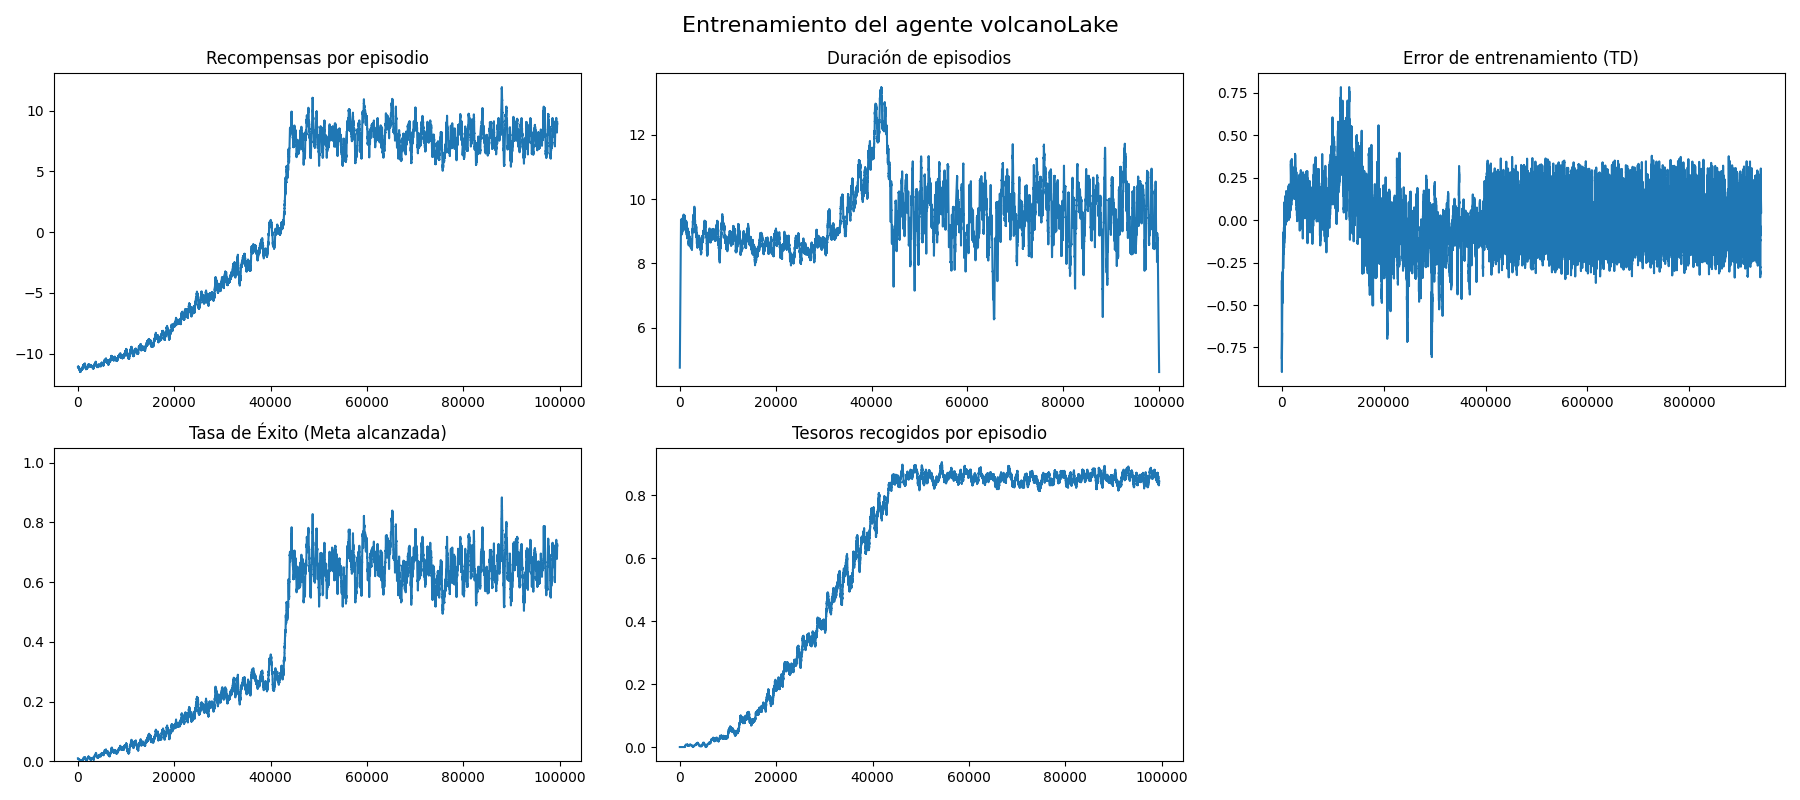
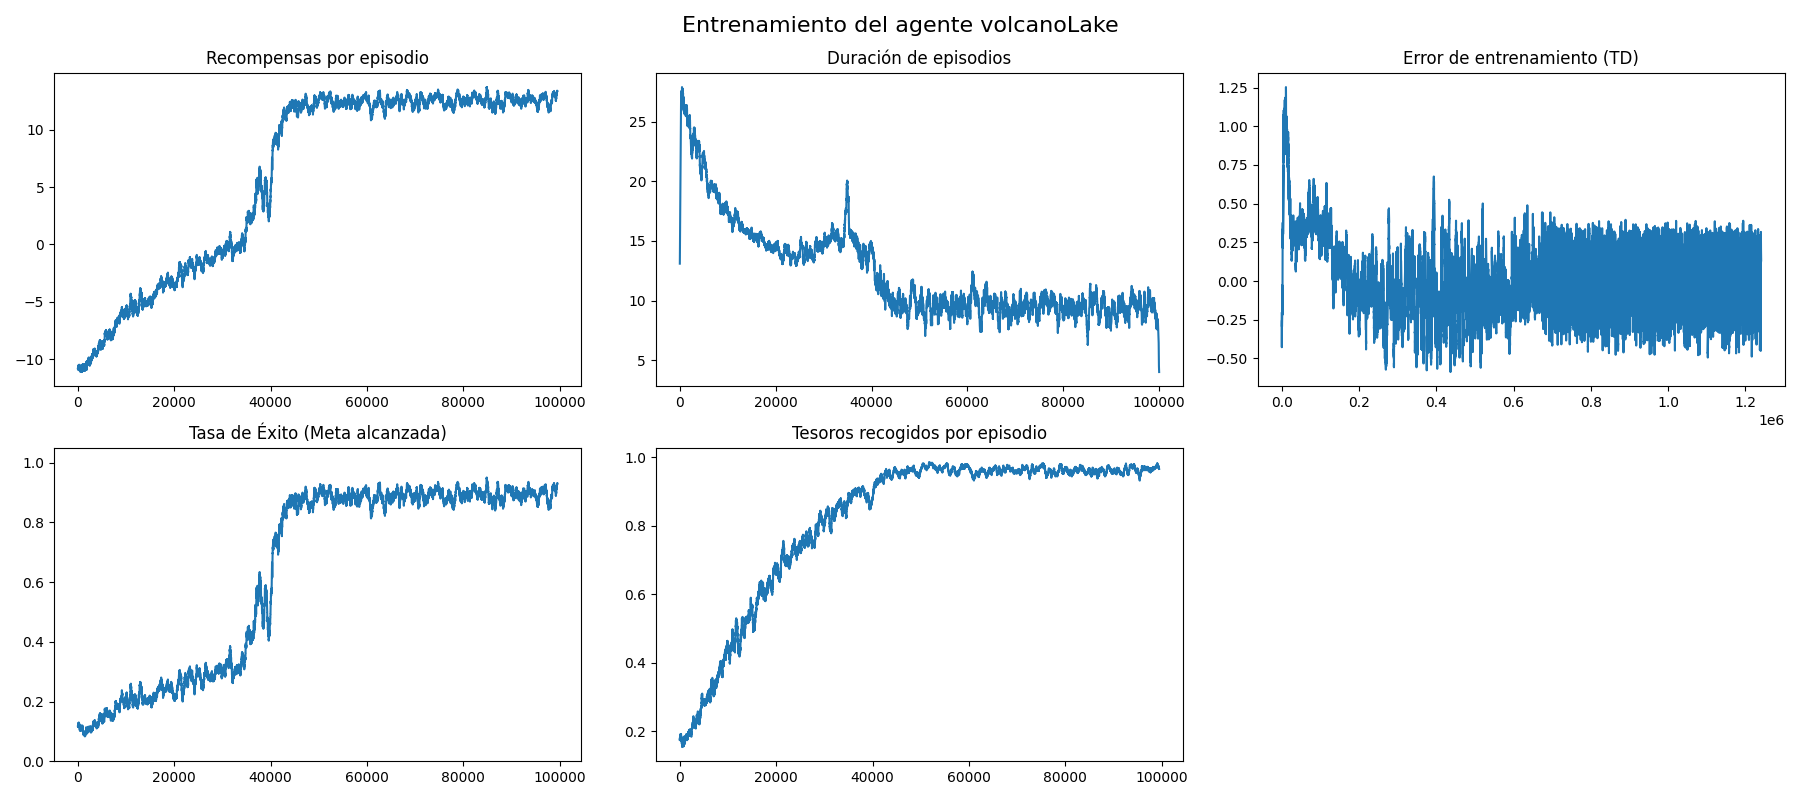
Añadido mapa de política

diff --git a/VolcanoLake_v3/utils/plotting.py b/VolcanoLake_v3/utils/plotting.py
@@ -108,7 +108,6 @@ def plot_value_heatmap(env, agent, plot_dir="plots"):
     Returns:
         None: Guarda el heatmap como archivo PNG
     """
-    print("Generando heatmap de la Q-Table...")
     os.makedirs(plot_dir, exist_ok=True)
 
     best_values = np.max(agent.q_values, axis=1)
@@ -122,3 +121,70 @@ def plot_value_heatmap(env, agent, plot_dir="plots"):
     heatmap_path = os.path.join(plot_dir, "volcanolake_value_heatmap.png")
     plt.savefig(heatmap_path)
     plt.close()
+
+def plot_policy_map(env, agent, plot_dir="plots"):
+    """
+    Genera y guarda un mapa de la política óptima del agente entrenado.
+    
+    Visualiza las acciones óptimas de cada estado como flechas direccionales
+    sobre una grilla que representa el entorno. Las flechas indican la dirección
+    de movimiento que el agente considera mejor según su Q-table entrenada.
+    No se muestran flechas en estados terminales (Lava 'L' y Meta 'G').
+    
+    Args:
+        env: Entorno VolcanoLake (con acceso a dimensiones y descripción del mapa)
+        agent: Agente Q-Learning entrenado (con Q-table completa)
+        plot_dir (str): Directorio donde guardar el archivo PNG del mapa de política
+    
+    Returns:
+        None: Guarda el mapa de política como archivo PNG
+    """
+    os.makedirs(plot_dir, exist_ok=True)
+    unwrapped_env = env.unwrapped
+
+    fig, ax = plt.subplots(figsize=(12, 10))
+
+    best_actions_map = np.argmax(agent.q_values, axis=1).reshape((unwrapped_env.nrows, unwrapped_env.ncols))
+
+    action_to_uv = {
+        action: (delta[1], delta[0]) 
+        for action, delta in unwrapped_env.action_to_delta.items()
+    }
+    
+    U = np.zeros_like(best_actions_map, dtype=float)
+    V = np.zeros_like(best_actions_map, dtype=float)
+    
+    for r in range(unwrapped_env.nrows):
+        for c in range(unwrapped_env.ncols):
+            action = best_actions_map[r, c]
+            u, v = action_to_uv[action]
+            
+            # No dibujar flechas en casillas terminales (Lava, Meta)
+            tile = unwrapped_env.base_desc[r, c]
+            if tile in ['G', 'L']:
+                U[r, c] = 0
+                V[r, c] = 0
+            else:
+                U[r, c] = u
+                V[r, c] = v
+
+    X, Y = np.meshgrid(np.arange(unwrapped_env.ncols), np.arange(unwrapped_env.nrows))
+    
+    ax.quiver(X, Y, U, V, color='black', pivot='middle', headwidth=4, headlength=5)
+    
+    # Invertimos el eje Y para que (0,0) esté arriba a la izquierda
+    ax.invert_yaxis() 
+    
+    ax.set_title(f"Mapa de Política (Q-Table) - Mapa {unwrapped_env.nrows}x{unwrapped_env.ncols}")
+    ax.set_xticks(np.arange(unwrapped_env.ncols))
+    ax.set_yticks(np.arange(unwrapped_env.nrows))
+    ax.set_xticklabels(np.arange(unwrapped_env.ncols))
+    ax.set_yticklabels(np.arange(unwrapped_env.nrows))
+    
+    # Añadimos una rejilla para que sea más fácil de leer
+    ax.grid(True, which='both', linestyle='--', linewidth=0.5)
+    ax.set_aspect('equal') # Hace que las casillas sean cuadradas
+
+    policy_path = os.path.join(plot_dir, "volcanolake_policy_map.png")
+    plt.savefig(policy_path)
+    plt.close(fig)

diff --git a/VolcanoLake_v3/main.py b/VolcanoLake_v3/main.py
@@ -2,7 +2,7 @@ import numpy as np
 import warnings
 
 from training.train_agent import train_volcanoLake_agent
-from utils.plotting import plot_training, plot_value_heatmap
+from utils.plotting import plot_training, plot_value_heatmap, plot_policy_map
 
 warnings.filterwarnings("ignore", category=UserWarning, module="gymnasium.wrappers.rendering")
 
@@ -38,6 +38,7 @@ if __name__ == "__main__":
     plot_save = True 
     plot_training(env, agent, plot_save)
     plot_value_heatmap(env, agent, plot_dir="VolcanoLake_v3/plots")
+    plot_policy_map(env, agent, plot_dir="VolcanoLake_v3/plots")
     
     # Mostrar una muestra de la Q-table final con 2 decimales y sin notación científica
     np.set_printoptions(precision=2, suppress=True)

diff --git a/VolcanoLake_v3/training/train_agent.py b/VolcanoLake_v3/training/train_agent.py
@@ -40,9 +40,9 @@ def train_volcanoLake_agent(n_episodes, map_path, learning_rate, start_epsilon, 
         
     # ---- Wrappers ----
     
-    env = IncreasingLavaHoles(env, 5, 0.05)
+    #env = IncreasingLavaHoles(env, 5, 0.05)
     #env = LimitedVision(env)
-    env = gym.wrappers.TimeLimit(env, 25)
+    env = gym.wrappers.TimeLimit(env, 100)
     env = gym.wrappers.RecordVideo(
         env, 
         video_folder = videos_dir,
